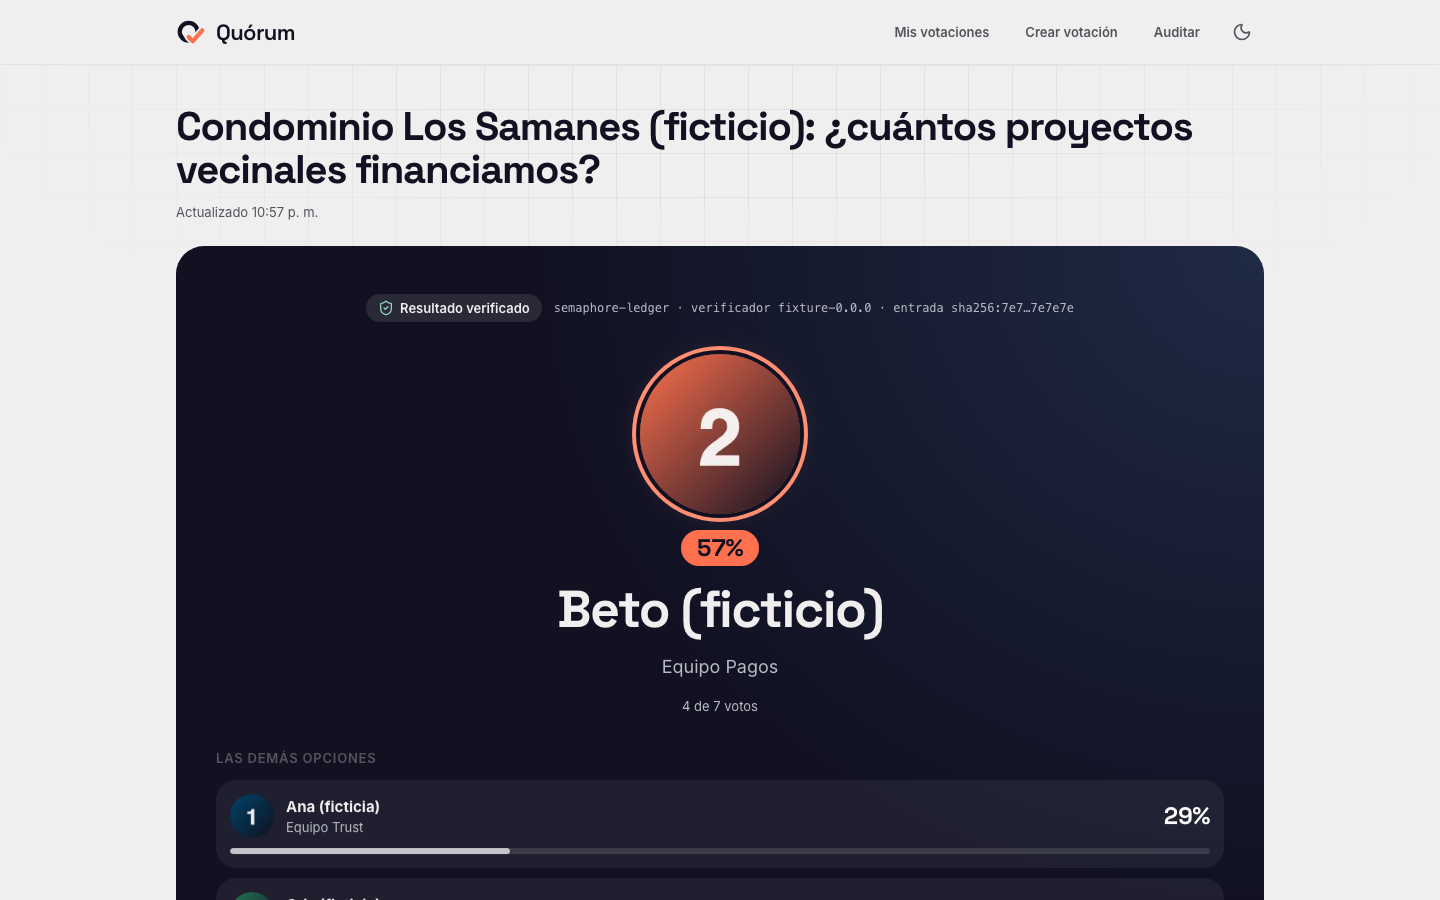
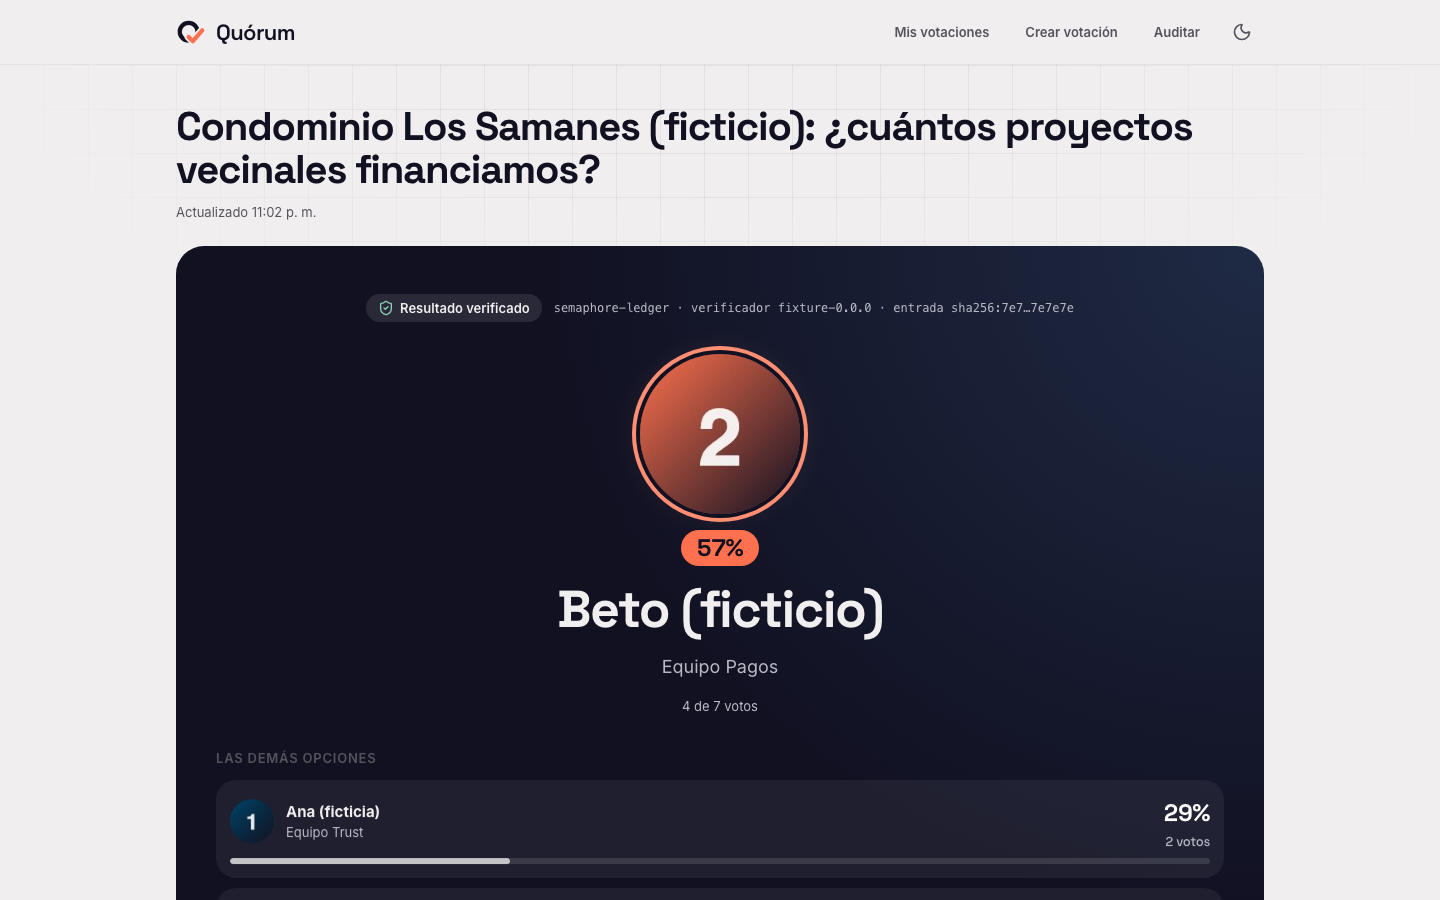
En vivo: sin «va ganando»; participación con personas esperadas; votos en cada tarjeta
Claude-Session: https://claude.ai/code/session_0126UDXVedLgwsVx5cb5fxdw

diff --git a/apps/web/src/components/results/ResultsCard.tsx b/apps/web/src/components/results/ResultsCard.tsx
@@ -26,6 +26,8 @@ type Props = {
   compact?: boolean;
   /** Contenido que va DENTRO de la misma carta, debajo de los totales (p. ej. las tarjetas por opción con foto): así todo se mueve junto. */
   children?: React.ReactNode;
+  /** `false` oculta «Va ganando / Más votada» (en /live los números van en las tarjetas). */
+  showLeader?: boolean;
 };
 
 function useCountdown(closesAt: string | undefined) {
@@ -42,7 +44,7 @@ function useCountdown(closesAt: string | undefined) {
   return ms > 0 ? formatCountdown(ms) : null;
 }
 
-export function ResultsCard({ options, totalVotes, eligible, turnout, live, statusLabel, title, className, ariaLabel, closesAt, compact = false, children }: Props) {
+export function ResultsCard({ options, totalVotes, eligible, turnout, live, statusLabel, title, className, ariaLabel, closesAt, compact = false, children, showLeader = true }: Props) {
   const left = useCountdown(live ? closesAt : undefined);
   const hidden = options.some((o) => o.count === null);
   const ranked = options
@@ -74,10 +76,10 @@ export function ResultsCard({ options, totalVotes, eligible, turnout, live, stat
           <dt className="q-eyebrow">Participación</dt>
           <dd className="q-num mt-1 text-[2.75rem] font-semibold leading-none md:text-[3.5rem]">{formatPercent(turnout)}</dd>
           <dd className="q-num mt-1 text-small text-muted-foreground">
-            {formatInt(totalVotes)} de {formatInt(eligible)} votos
+            {formatInt(totalVotes)} de {formatInt(eligible)} personas esperadas
           </dd>
         </div>
-        {leader ? (
+        {leader && showLeader ? (
           <div className="min-w-0">
             <dt className="q-eyebrow">{live ? "Va ganando" : "Más votada"}</dt>
             <dd className="mt-1 flex flex-col">
@@ -113,7 +115,7 @@ export function ResultsCard({ options, totalVotes, eligible, turnout, live, stat
 
       {hidden ? (
         <div className="mt-6 rounded-md bg-muted p-4">
-          <p className="text-body font-semibold">{missing > 0 ? `Faltan ${missing} ${missing === 1 ? "voto" : "votos"} para ver el desglose` : "El desglose se publica por lotes de votos"}</p>
+          <p className="text-body font-semibold">{missing > 0 ? (missing === 1 ? "Falta 1 voto para ver el desglose" : `Faltan ${missing} votos para ver el desglose`) : "El desglose se publica por lotes de votos"}</p>
           <div aria-hidden="true" className="mt-3 h-2 overflow-hidden rounded-full bg-card">
             <div className="q-grow h-full rounded-full bg-accent" style={{ width: `${(Math.min(totalVotes, MIN_VOTES_FOR_BREAKDOWN) / MIN_VOTES_FOR_BREAKDOWN) * 100}%` }} />
           </div>

diff --git a/apps/web/src/components/results/RankedCards.tsx b/apps/web/src/components/results/RankedCards.tsx
@@ -156,8 +156,13 @@ export function RankedCards({ options, totalVotes, size = "md", tone = "light", 
                   — {formatInt(o.count)} {o.count === 1 ? "voto" : "votos"}
                 </span>
               </div>
-              <span className={cn("q-num shrink-0 font-bold leading-none", lg ? "text-[2rem] md:text-[2.5rem]" : "text-[1.5rem]", dark ? (lead ? "text-[#ff8e72]" : "text-white") : "text-primary-ink")}>
-                {formatPercent(pct)}
+              <span className="flex shrink-0 flex-col items-end">
+                <span className={cn("q-num font-bold leading-none", lg ? "text-[2rem] md:text-[2.5rem]" : "text-[1.5rem]", dark ? (lead ? "text-[#ff8e72]" : "text-white") : "text-primary-ink")}>
+                  {formatPercent(pct)}
+                </span>
+                <span className={cn("q-num mt-1 text-small leading-none", dark ? "text-[#b9bac4]" : "text-muted-foreground")} data-testid="ranked-count">
+                  {formatInt(o.count)} {o.count === 1 ? "voto" : "votos"}
+                </span>
               </span>
             </div>
             <span aria-hidden="true" className={cn("block h-1.5 overflow-hidden rounded-full", dark ? "bg-white/[0.12]" : "bg-[#edf1f4]")}>

diff --git a/apps/web/src/components/live/LiveDashboard.tsx b/apps/web/src/components/live/LiveDashboard.tsx
@@ -129,7 +129,7 @@ export function LiveDashboard({ electionId }: { electionId: string }) {
 
         {data && closed ? <WinnerScreen electionId={electionId} status={data.status} options={withPhotos} totalVotes={data.totalVotes} audit={audit} /> : null}
         {data && phase !== "registration" ? (
-          <ResultsCard options={data.options} totalVotes={data.totalVotes} eligible={data.eligible} turnout={data.turnout} live={data.status === "open"} statusLabel={phaseLabel[data.status]} closesAt={data.closesAt} compact={closed || breakdown}>
+          <ResultsCard options={data.options} totalVotes={data.totalVotes} eligible={data.eligible} turnout={data.turnout} live={data.status === "open"} statusLabel={phaseLabel[data.status]} closesAt={data.closesAt} compact={closed || breakdown} showLeader={false}>
             {/* Una sola carta: «En vivo», participación y «va ganando» arriba; debajo, en la misma carta, las tarjetas con foto que se reordenan. */}
             {!closed && breakdown ? <RankedCards ariaHidden options={withPhotos.map((o) => ({ ...o, count: o.count ?? 0 }))} totalVotes={data.totalVotes} size="lg" /> : null}
           </ResultsCard>
